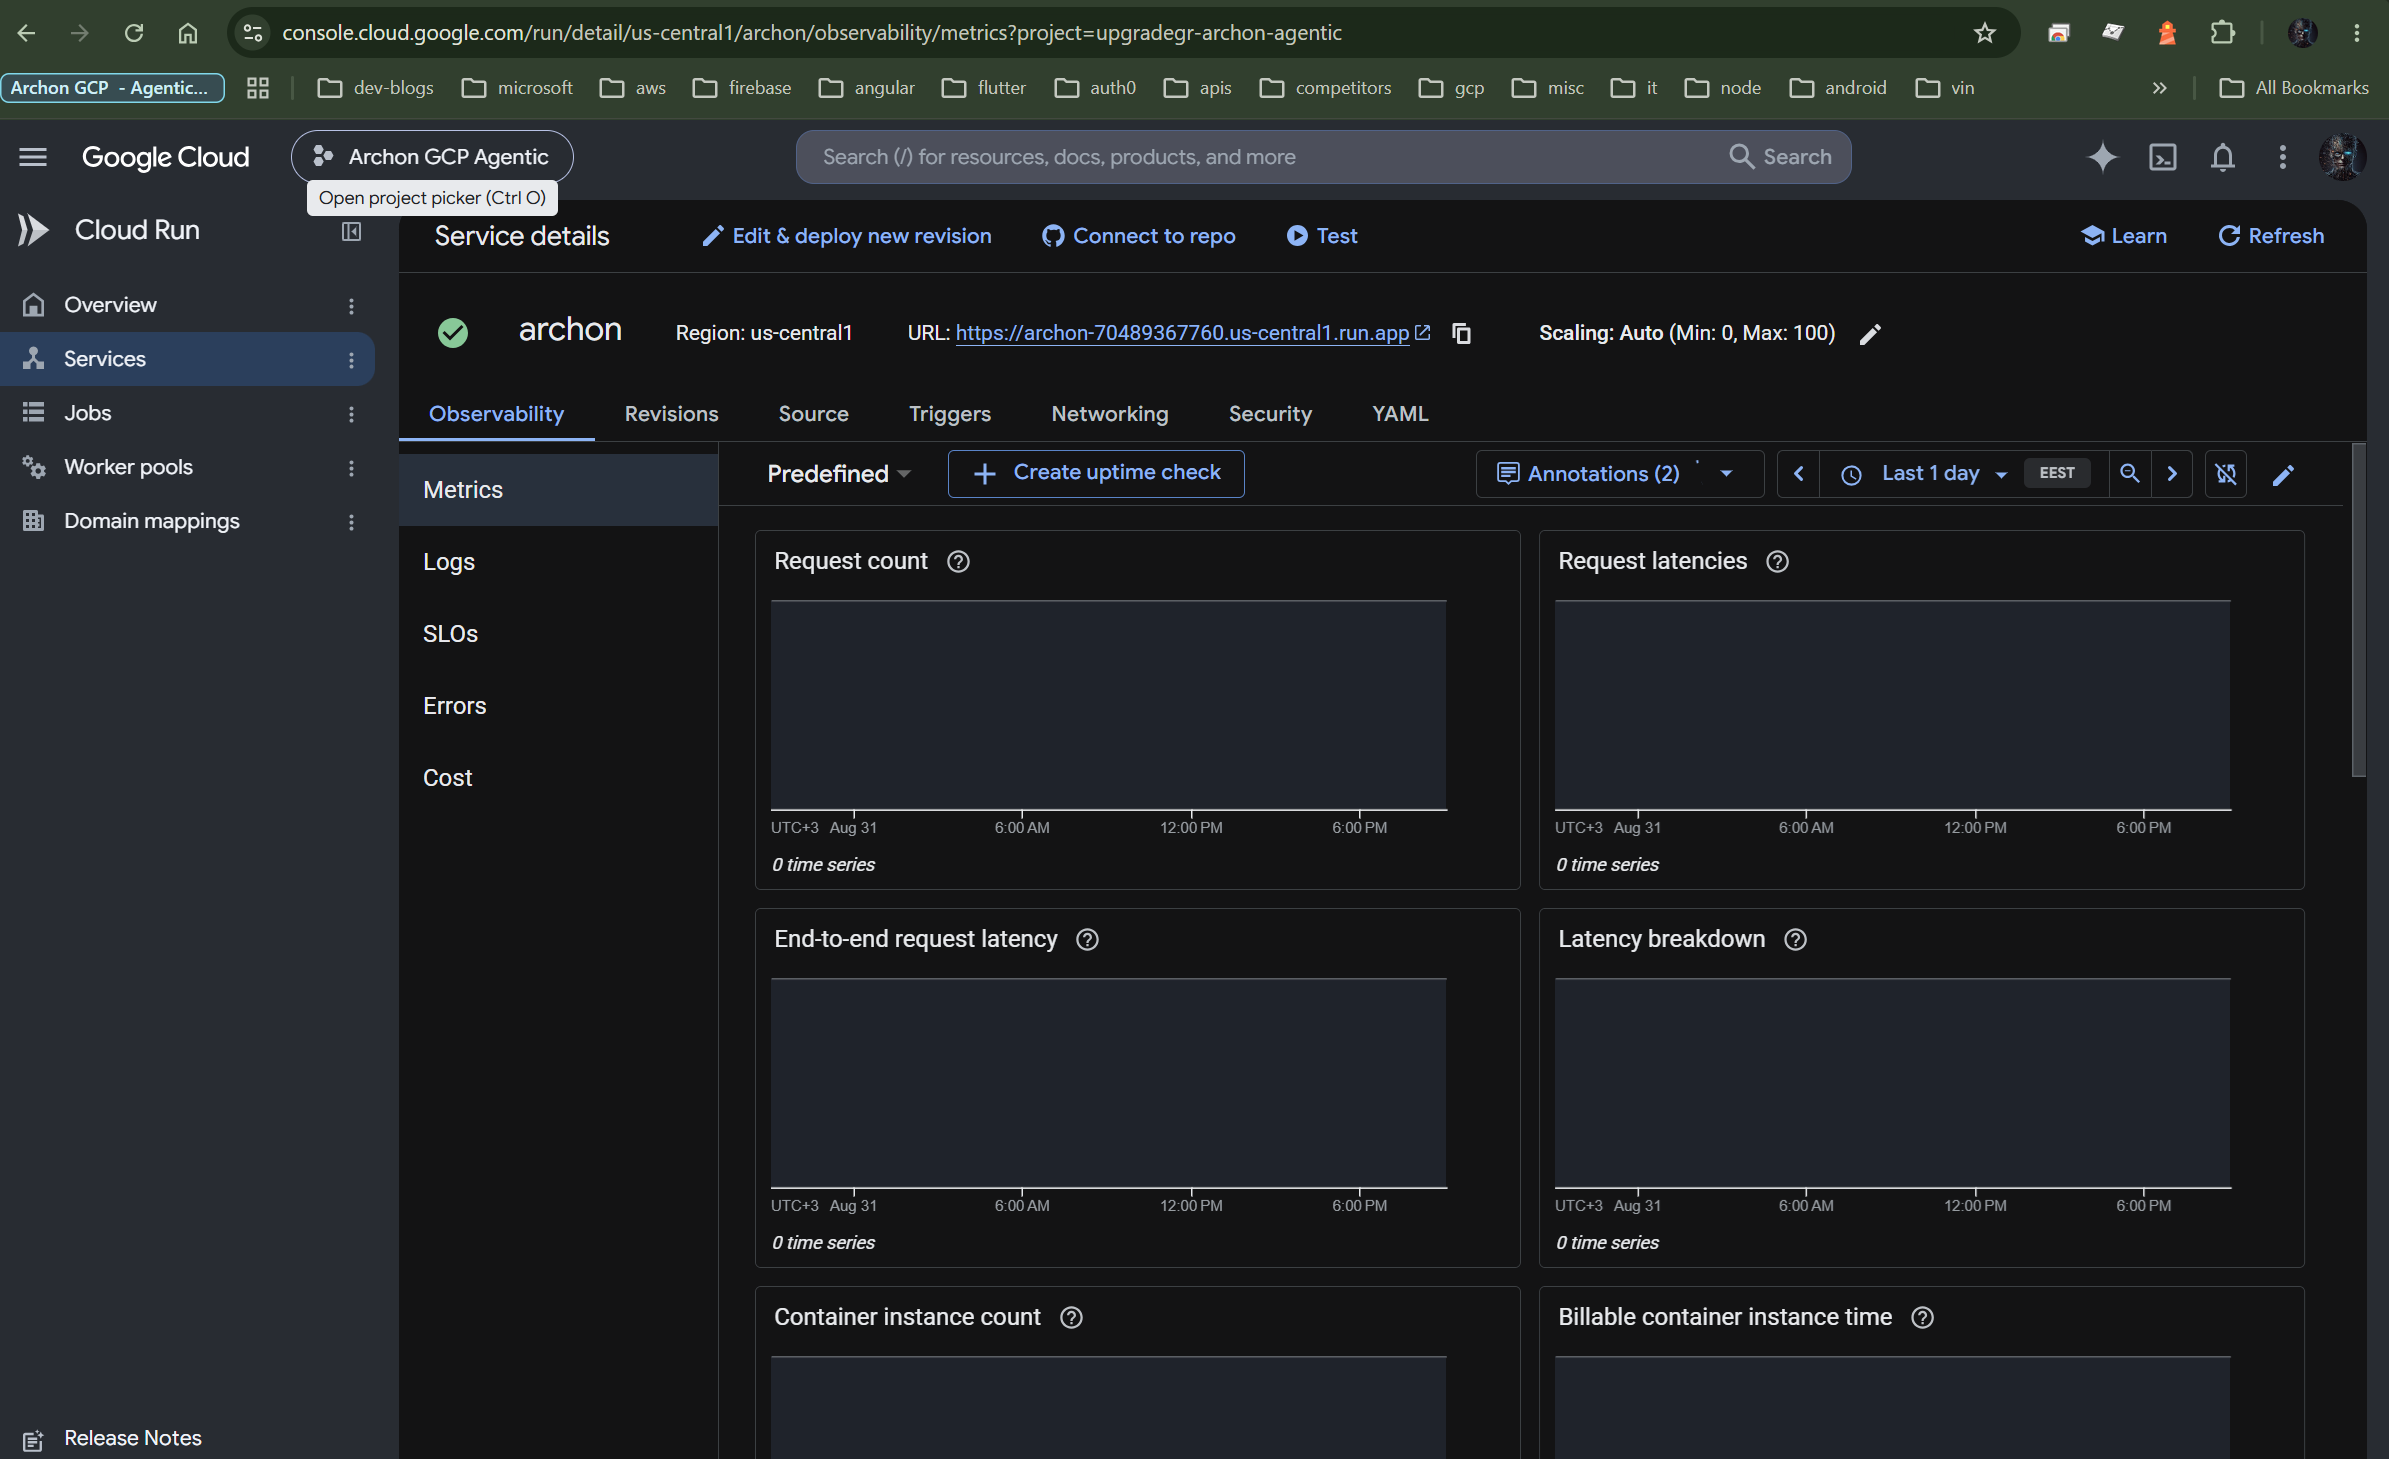
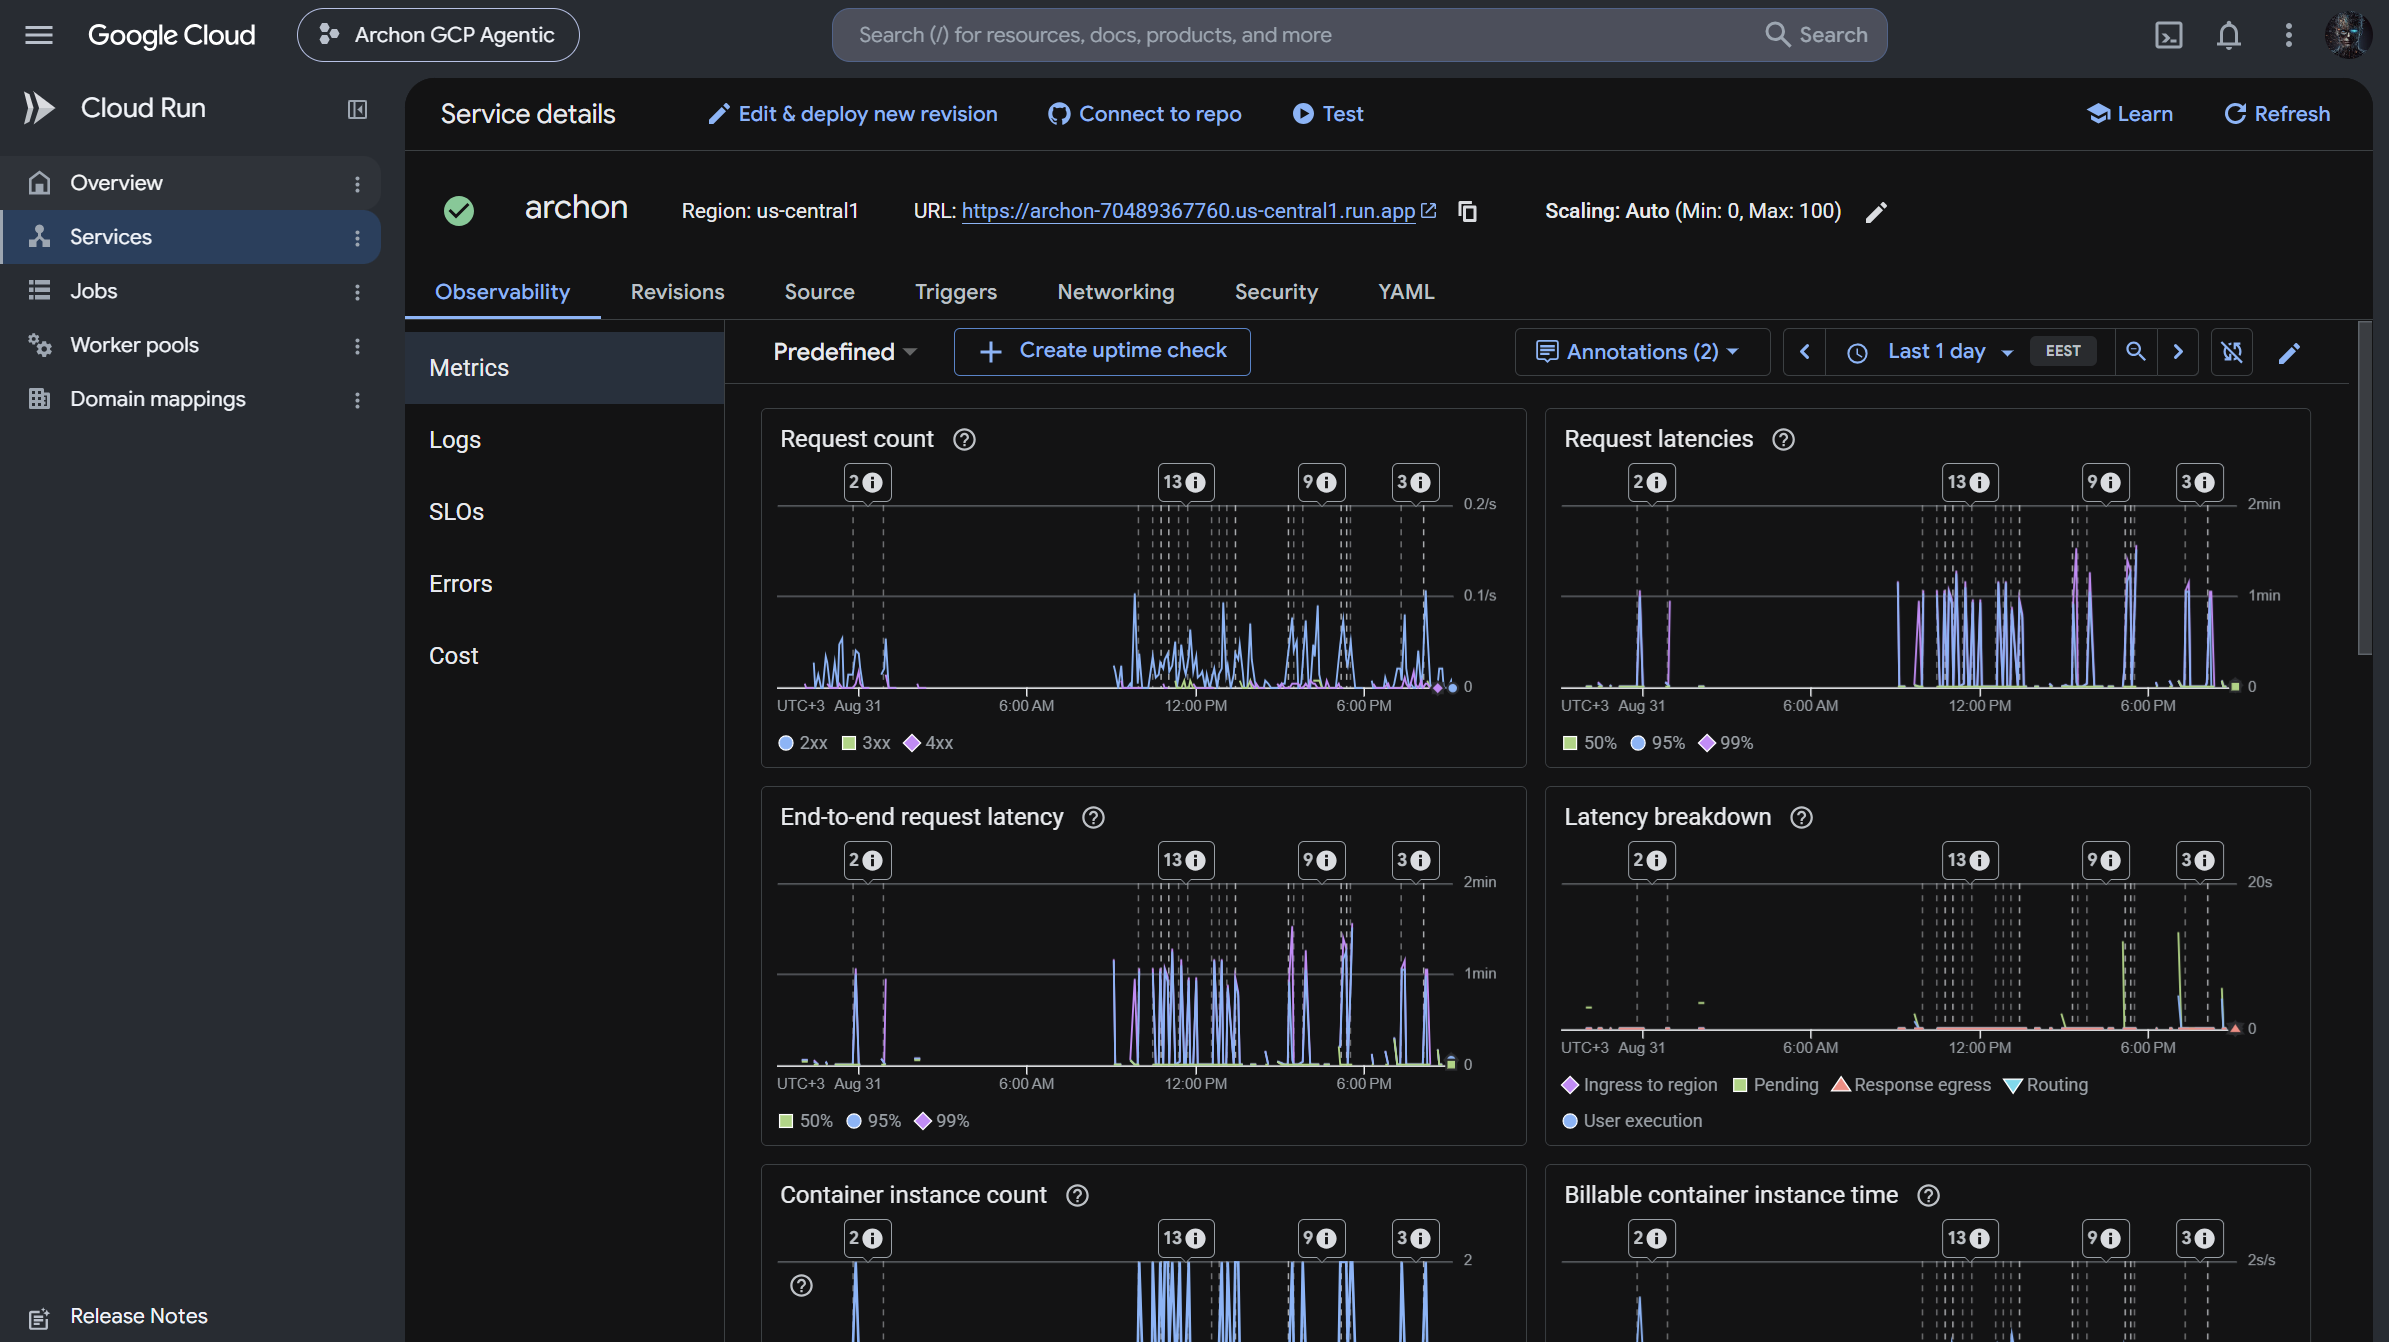
The Cloud Run console, in the beat that was asserting it in JSON
Three stills of the deployment, taken by hand because the console needs a
signed-in session the video workflow does not have. They are the one asset in
this recording a clone cannot regenerate, and video/console/README.md says so
rather than letting a reader assume otherwise.

The first is the one that matters: the archon service in us-central1, its
.run.app URL, the serving revision at 100% traffic, a 600 second request
timeout, and "Deployed by archon-deploy@...iam.gserviceaccount.com" - which is
the Workload Identity Federation claim made visible instead of described. The
other two are request metrics and live logs, so the service is visibly serving
rather than merely deployed.

They share the seconds the cloud beat already had, so corroboration costs the
cut nothing.

Note on a drift that cannot be removed: the stills have to be committed before
the deploy they are filmed against, so the revision they show is one behind the
revision the live slide reads. Closing that would need a screenshot taken after
a deploy that the screenshot itself is part of.

Also the serving host was breaking mid-word on the cloud slide, which reads as
a rendering fault rather than a URL. It gets the width of two cards.

diff --git a/video/deck.html b/video/deck.html
@@ -201,7 +201,12 @@
   .stage.on .fact:nth-child(5) { animation-delay: 1.35s; }
   .stage.on .fact:nth-child(6) { animation-delay: 1.55s; }
   .fact .k { font-size: 18px; letter-spacing: .14em; text-transform: uppercase; color: var(--text-3); }
-  .fact .v { font-size: 34px; font-weight: 500; margin-top: 8px; word-break: break-all; }
+  .fact .v { font-size: 34px; font-weight: 500; margin-top: 8px; }
+  /* The host is 38 characters and break-all split it mid-word, which reads as
+     a rendering fault rather than a URL. It gets the width of two cards and a
+     size that fits on one line. */
+  .fact.wide { grid-column: span 2; }
+  .fact.wide .v { font-size: 40px; }
   .fact .v.cool { color: var(--cyan); }
   .fact .v.ok { color: var(--positive); }
   .live {
@@ -328,7 +333,7 @@
     The deployment <b>answers for itself</b> — and this is what it just said.
   </h1>
   <div class="facts">
-    <div class="fact"><div class="k">Serving from</div><div class="v cool" id="f-url">—</div></div>
+    <div class="fact wide"><div class="k">Serving from</div><div class="v cool" id="f-url">—</div></div>
     <div class="fact"><div class="k">Cloud Run revision</div><div class="v" id="f-revision">—</div></div>
     <div class="fact"><div class="k">Release</div><div class="v" id="f-release">—</div></div>
     <div class="fact"><div class="k">Trail persisted to</div><div class="v ok" id="f-store">—</div></div>
